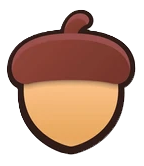
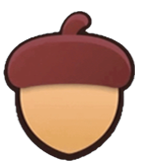
asdfasdf

Changed region(s): [[0.0, 0.0602, 0.9444, 0.994]]

diff --git a/game.js b/game.js
@@ -307,7 +307,7 @@ class GameScene extends Phaser.Scene {
 
         this.anims.create({ key: 'nut_fill_anim', frames: this.anims.generateFrameNumbers('nut_fill_sheet', { start: 0, end: 50 }), frameRate: 30, repeat: 0 });
         this.cooldownNut = this.add.sprite(this.monkey.x+50, this.monkey.y - 120, 'nut_fill_sheet');
-        this.cooldownNut.setScale(0.195).setAlpha(0);   
+        this.cooldownNut.setScale(0.4).setAlpha(0);   
 
         this.readyNut = this.add.sprite(this.monkey.x+50, this.monkey.y - 120, 'nut');
         this.readyNut.setScale(0.5); 